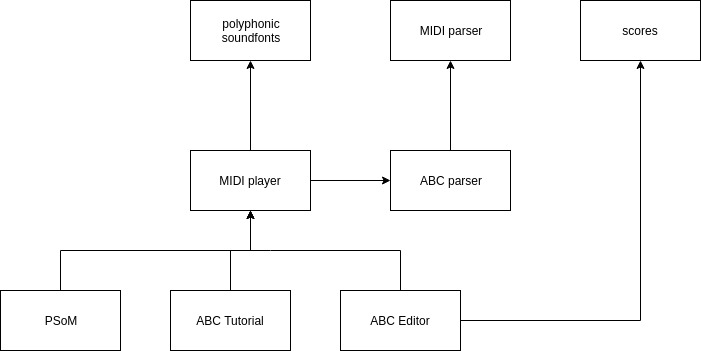
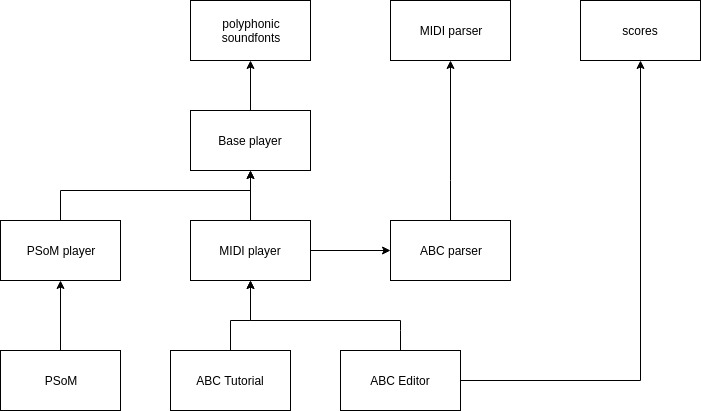
Updated project interdependencies

diff --git a/README.md b/README.md
@@ -11,7 +11,7 @@ purescript
 | [purescript-school-of-music](https://github.com/newlandsvalley/purescript-school-of-music) | port of the Haskell Scool of Music |
 | [keyboard player](https://github.com/newlandsvalley/purescript-midi/tree/master/examples/keyboard)            | play a MIDI keyboard through the browser  |
 
-These projects share various libraries.  The interdependencies are shown below:
+All these projects run in the browser and use Pux/smolder to generate the HTML. The various players are implemented as autonomous Pux modules. The projects share various libraries whose interdependencies are shown below:
 
 ![dependencies](https://github.com/newlandsvalley/music-projects/blob/master/ps-dependencies.jpg)
 
